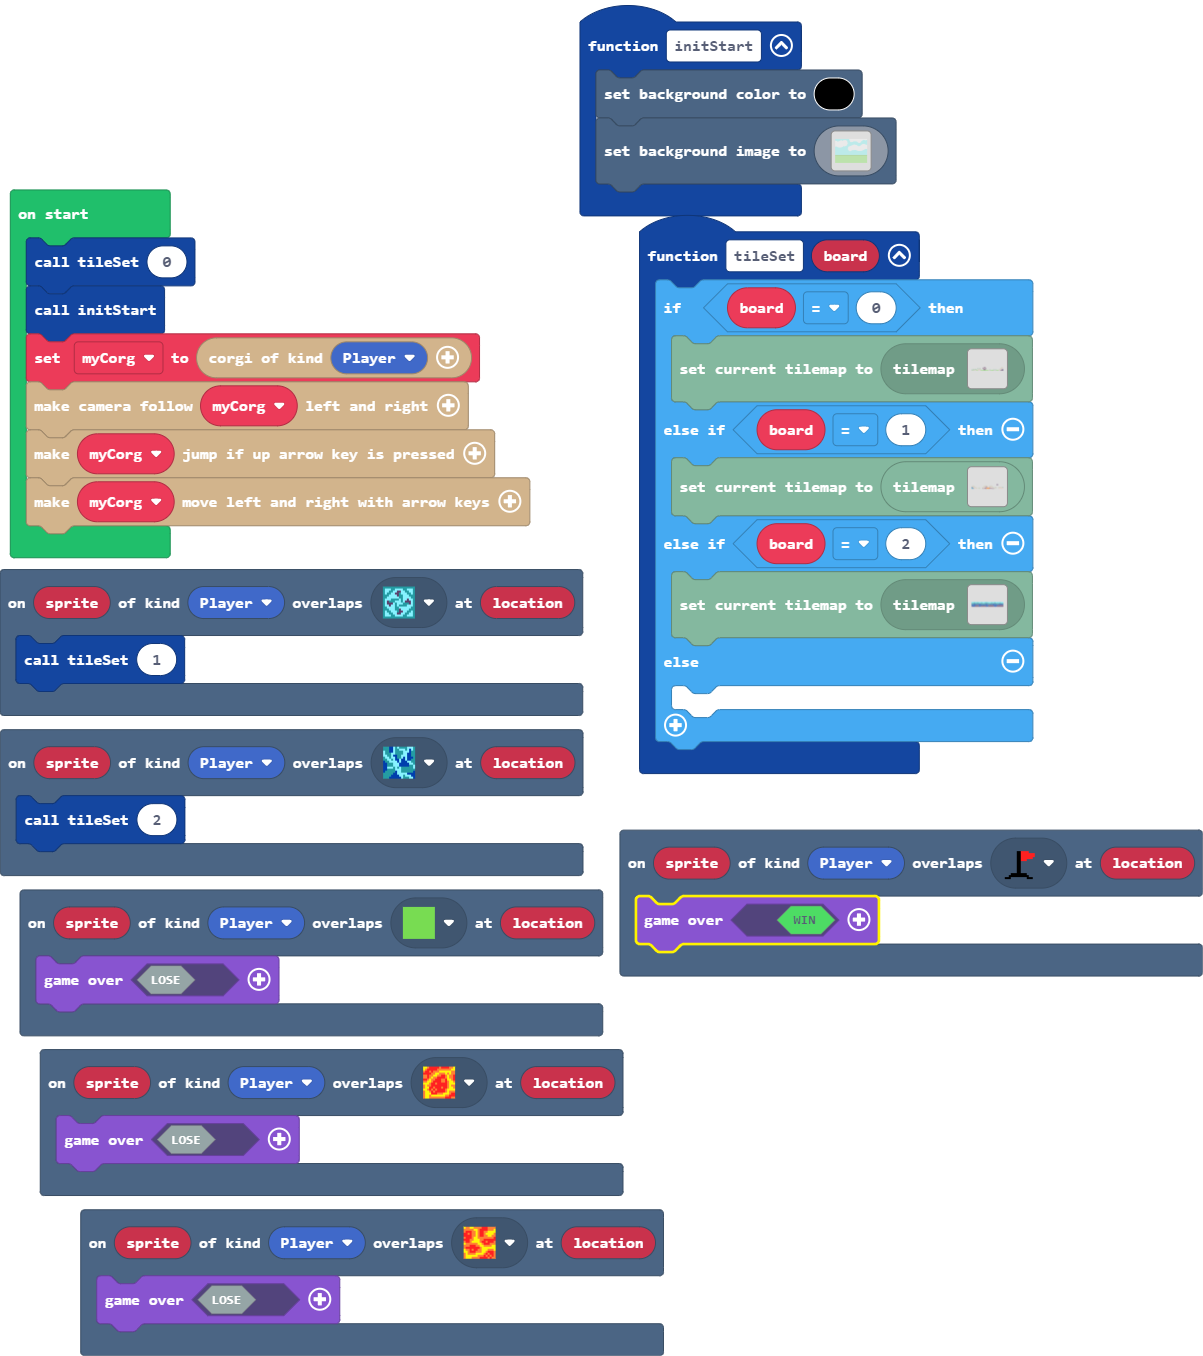
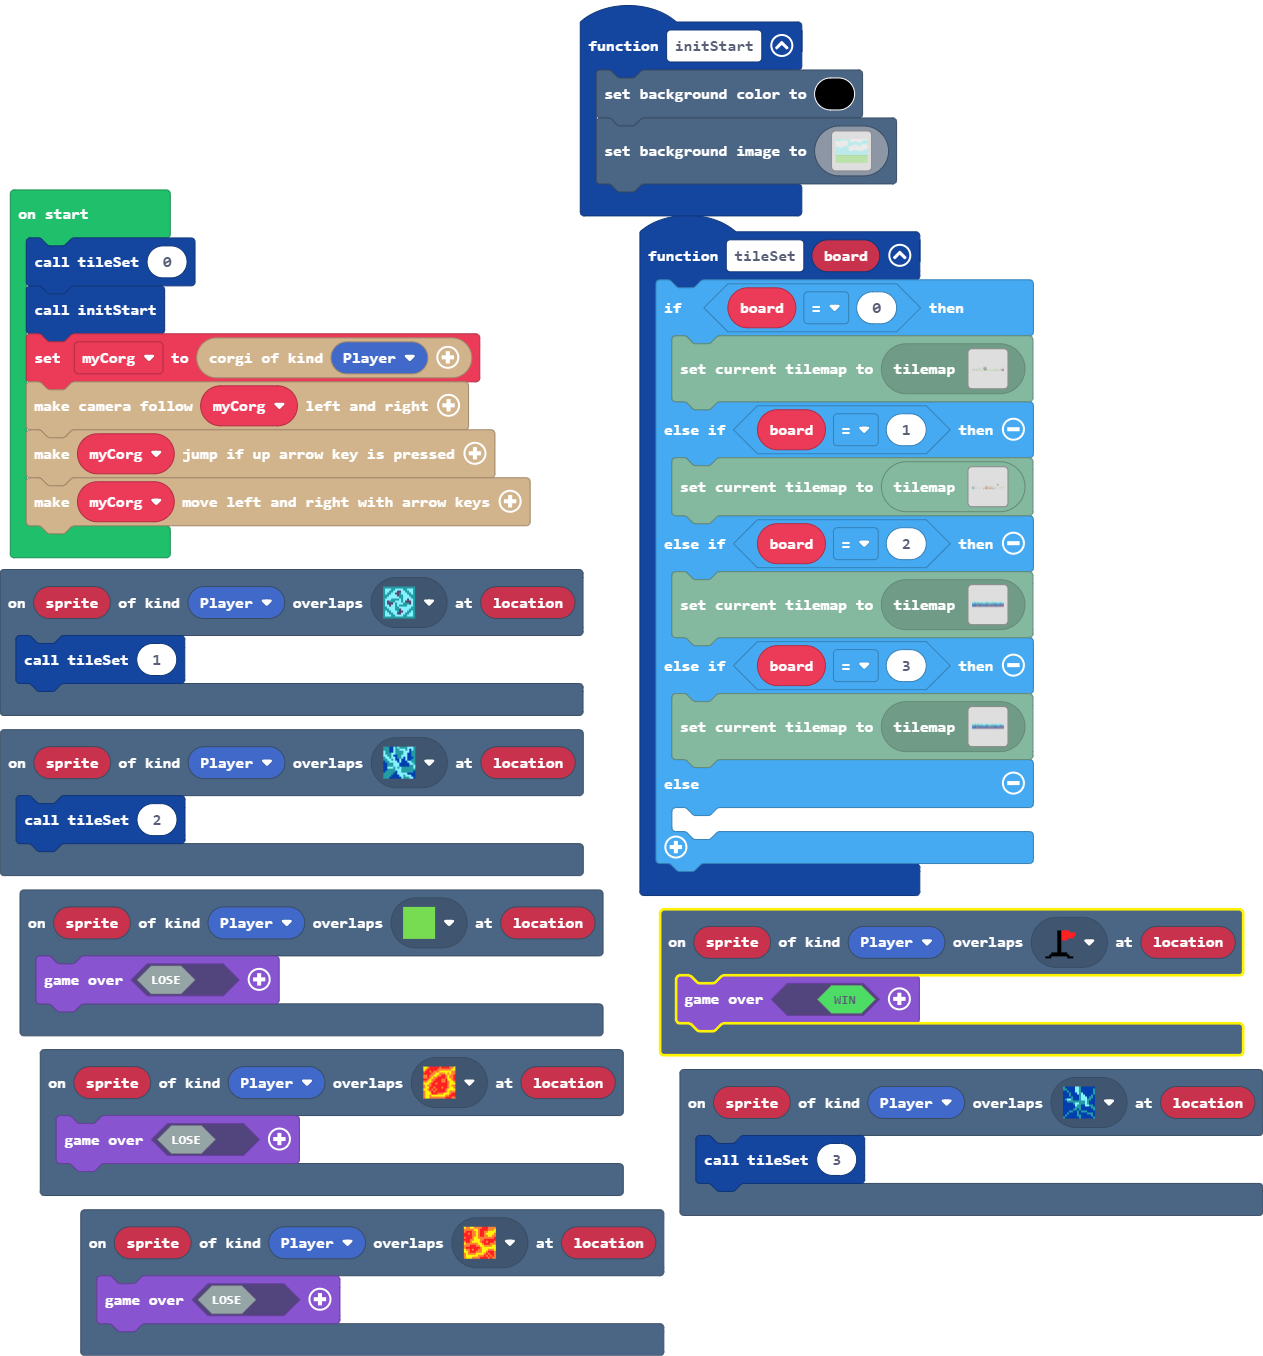
Update main.blocks, main.ts, tilemap.g.jres, tilemap.g.ts

diff --git a/main.ts b/main.ts
@@ -28,7 +28,7 @@ function tileSet (board: number) {
             222222222..22....2222222....22222222.22...22222222
             `, [myTiles.transparency16,sprites.castle.tilePath1,sprites.castle.tilePath2,sprites.castle.tilePath3,sprites.castle.tilePath6,sprites.castle.tilePath5,sprites.builtin.oceanSand12,sprites.builtin.oceanSand11,sprites.dungeon.darkGroundCenter,sprites.castle.tilePath7,sprites.castle.tilePath9,sprites.castle.tilePath4,sprites.builtin.oceanDepths0,sprites.dungeon.hazardLava0,sprites.dungeon.hazardLava1,myTiles.tile1,sprites.dungeon.collectibleInsignia], TileScale.Sixteen)))
     } else if (board == 2) {
-        tiles.loadMap(tiles.createMap(tiles.createTilemap(hex`3200080001010101010101010101010101010101010101010101010101010101010101010101010101010101010101010101010101010201010202020201020202020101010202010101010202020202010101010102020101020202010101020101020201010101050202050505050205050505020202050502020202050505050505020202020505020205050505020205020205050202020203050503030303050503050303030305050505050505030303050505050503050503030303050305050505030303030303050403050404040403030403040404040303030303030304040403030303030403030404040403040303030304040404040403040403040404040606060606040404040404040404040404040406060606060606060404040404040406060606060606060604040404040406080807070704040406060606060606060404040707070807080807060404040404060808080707080807070606040404060707070808070404070707070707070707040404070708070808080807060404040607070807080807070807`, img`
+        tiles.loadMap(tiles.createMap(tiles.createTilemap(hex`3200080001010101010101010101010101010101010101010101010101010101010101010101010101010101010101010101010101010201010202020201020202020101010202010101010202020202010101010102020101020202010101020101020201010101050202050505050205050505020202050502020202050505050505020202020505020205050505020205020205050202020203050503030303050503050303030305050505050505030303050505050503050503030303050305050505030303030303050403050404040403030403040404040303030303030304040403030303030403030404040403040303030304040404040403040403040404040606060606040404040404040404040404040406060606060606060404040404040406060606060606060604040404040406080807070704040406060606060606060404040707070807080807060404040404060808080707080807070906040404060707070808070404070707070707070707040404070708070808080807060404040607070807080807070807`, img`
             ..................................................
             ..................................................
             ..................................................
@@ -37,13 +37,27 @@ function tileSet (board: number) {
             .......22222..............22222222.......222222222
             ......222222...22222222...222222222.....2222222222
             22...2222222..222222222...2222222222...22222222222
-            `, [myTiles.transparency16,myTiles.tile2,myTiles.tile3,myTiles.tile4,myTiles.tile5,myTiles.tile6,sprites.builtin.oceanSand8,sprites.dungeon.darkGroundCenter,myTiles.tile7], TileScale.Sixteen)))
+            `, [myTiles.transparency16,myTiles.tile2,myTiles.tile3,myTiles.tile4,myTiles.tile5,myTiles.tile6,sprites.builtin.oceanSand8,sprites.dungeon.darkGroundCenter,myTiles.tile7,myTiles.tile11], TileScale.Sixteen)))
+    } else if (board == 3) {
+        tiles.loadMap(tiles.createMap(tiles.createTilemap(hex`3200080001010101010101010101010101010101010101010101010101010101010101010101010101010101010101010101010101010201010202020201020202020101010202010101010202020202010101010102020101020202010101020101020201010101050202050505050205050505020202050502020202050505050505020202020505020205050505020205020205050202020203050503030303050503050303030305050505050505030303050505050503050503030303050305050505030303030303050403050404040403030403040404040303030303030304040403030303030403030404040403040303030304040404040403040403040404040606060606040404040404040404040404040406060606060606060404040404040406060606060606060604040404040406080807070704040406060606060606060404040707070807080807060404040404060808080707080807070906040404060707070808070404070707070707070707040404070708070808080807060404040607070807080807070807`, img`
+            ..................................................
+            ..................................................
+            ..................................................
+            ..................................................
+            ..................................................
+            .......22222..............22222222.......222222222
+            ......222222...22222222...222222222.....2222222222
+            22...2222222..222222222...2222222222...22222222222
+            `, [myTiles.transparency16,myTiles.tile2,myTiles.tile3,myTiles.tile4,myTiles.tile5,myTiles.tile6,sprites.builtin.oceanSand8,sprites.dungeon.darkGroundCenter,myTiles.tile7,myTiles.tile11], TileScale.Sixteen)))
     } else {
     	
     }
 }
 scene.onOverlapTile(SpriteKind.Player, myTiles.tile9, function (sprite, location) {
     game.over(true)
+})
+scene.onOverlapTile(SpriteKind.Player, myTiles.tile11, function (sprite, location) {
+    tileSet(3)
 })
 scene.onOverlapTile(SpriteKind.Player, sprites.dungeon.hazardLava1, function (sprite, location) {
     game.over(false)

diff --git a/tilemap.g.ts b/tilemap.g.ts
@@ -20,6 +20,8 @@ namespace myTiles {
     export const tile8 = image.ofBuffer(hex``);
     //% fixedInstance jres blockIdentity=images._tile
     export const tile9 = image.ofBuffer(hex``);
+    //% fixedInstance jres blockIdentity=images._tile
+    export const tile11 = image.ofBuffer(hex``);
 
 }
 // Auto-generated code. Do not edit.
